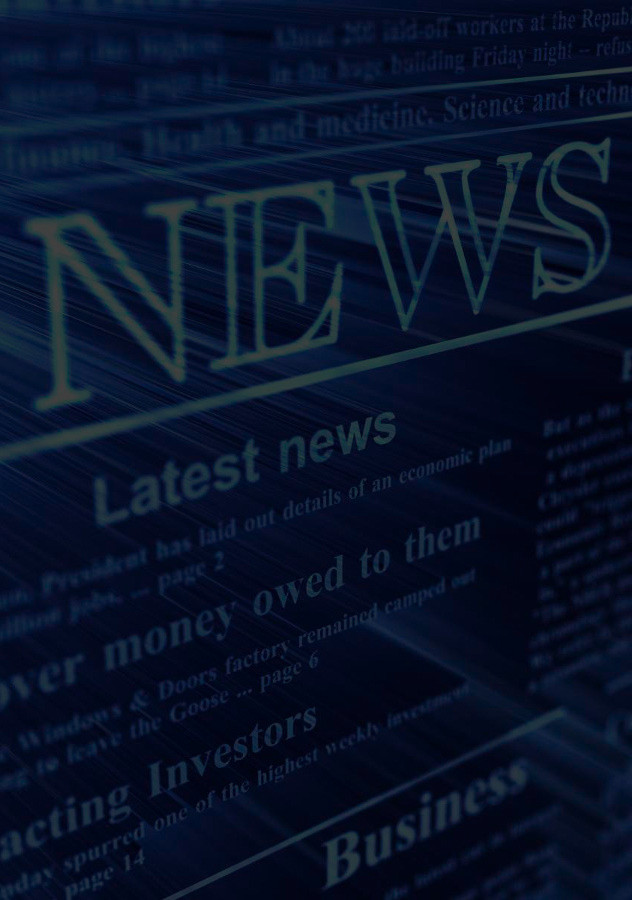
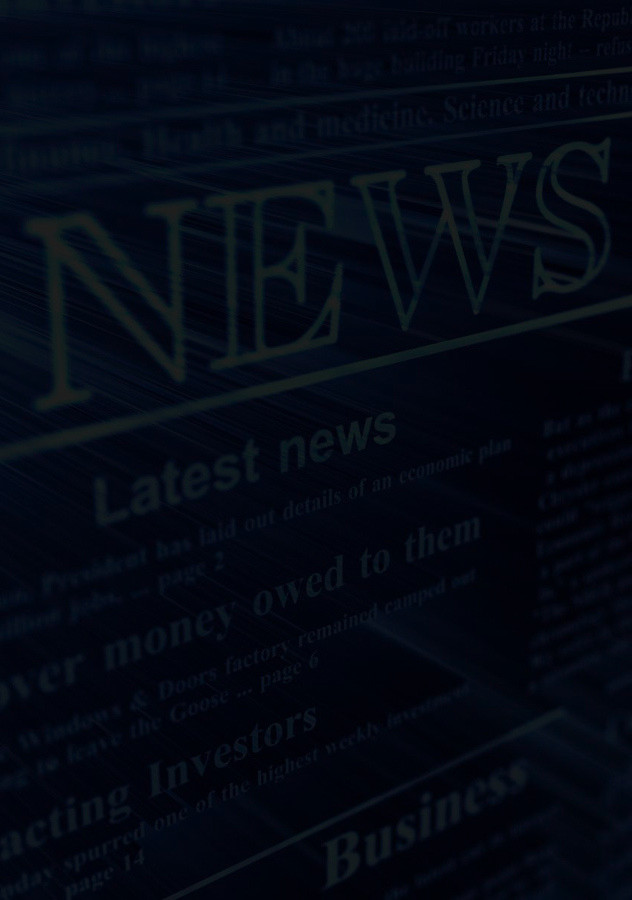
ajustes destaque

diff --git a/lib/model/Notice.dart b/lib/model/Notice.dart
@@ -1,9 +1,7 @@
-
 import 'package:transparent_image/transparent_image.dart';
 import 'package:flutter/material.dart';
 
-class Notice{
-
+class Notice {
   String img;
   String title;
   String date;
@@ -15,8 +13,8 @@ class Notice{
   Notice(this.img, this.title, this.date, this.description, this.category,
       this.link, this.origin);
 
-  Notice.fromMap(Map<String, dynamic>  map) :
-        img = _getImageUrl(map['url_img'],200,200),
+  Notice.fromMap(Map<String, dynamic> map)
+      : img = _getImageUrl(map['url_img'], 200, 200),
         title = map['tittle'],
         date = map['date'],
         description = map['description'],
@@ -24,25 +22,22 @@ class Notice{
         link = map['link'],
         origin = map['origin'];
 
-
-  Widget getViewNormal(){
-    return new NoticeView(img,title,date,description,category,link,origin);
+  Widget getViewNormal() {
+    return new NoticeView(
+        img, title, date, description, category, link, origin);
   }
 
-  Widget getViewSpotlight(){
-    return new NoticeViewSpotlight(img,title,date,description,category,link,origin);
+  Widget getViewSpotlight() {
+    return new NoticeViewSpotlight(
+        img, title, date, description, category, link, origin);
   }
 
-  static String _getImageUrl(url,height,width){
-
+  static String _getImageUrl(url, height, width) {
     return 'http://104.131.18.84/notice/tim.php?src=$url&h=$height&w=$width';
-
   }
-
 }
 
 class NoticeView extends StatelessWidget {
-
   String _img;
   String _title;
   String _date;
@@ -50,7 +45,6 @@ class NoticeView extends StatelessWidget {
   String _category;
   String _link;
   String _origin;
-
 
   NoticeView(this._img, this._title, this._date, this._description,
       this._category, this._link, this._origin);
@@ -66,30 +60,30 @@ class NoticeView extends StatelessWidget {
           crossAxisAlignment: CrossAxisAlignment.start,
           children: <Widget>[
             _getImage(_img),
-            _getColumText(_title,_date,_description),
+            _getColumText(_title, _date, _description),
           ],
         ),
       ),
     );
   }
 
-  Widget _getColumText(tittle,date, description){
-
+  Widget _getColumText(tittle, date, description) {
     return new Expanded(
         child: new Container(
-          margin: new EdgeInsets.only(left: 20.0, right: 10.0, bottom: 10.0, top: 10.0),
-          child: new Column(
-            crossAxisAlignment:CrossAxisAlignment.start,
-            children: <Widget>[
-              _getTitleWidget(tittle),
-              _getDateWidget(date),
-              _getDescriptionWidget(description)],
-          ),
-        )
-    );
+      margin:
+          new EdgeInsets.only(left: 20.0, right: 10.0, bottom: 10.0, top: 10.0),
+      child: new Column(
+        crossAxisAlignment: CrossAxisAlignment.start,
+        children: <Widget>[
+          _getTitleWidget(tittle),
+          _getDateWidget(date),
+          _getDescriptionWidget(description)
+        ],
+      ),
+    ));
   }
 
-  Widget _getTitleWidget(String curencyName){
+  Widget _getTitleWidget(String curencyName) {
     return new Text(
       curencyName,
       maxLines: 1,
@@ -97,38 +91,39 @@ class NoticeView extends StatelessWidget {
     );
   }
 
-  Widget _getDescriptionWidget(String description){
+  Widget _getDescriptionWidget(String description) {
     return new Container(
       margin: new EdgeInsets.only(top: 5.0),
-      child: new Text(description,maxLines: 2,),
+      child: new Text(
+        description,
+        maxLines: 2,
+      ),
     );
   }
 
-  Widget _getDateWidget(String date){
-    return new Text(date,
-      style: new TextStyle(color: Colors.grey,fontSize: 10.0),);
+  Widget _getDateWidget(String date) {
+    return new Text(
+      date,
+      style: new TextStyle(color: Colors.grey, fontSize: 10.0),
+    );
   }
 
   Widget _getImage(String img) {
-
     return Container(
         child: ClipRRect(
-          borderRadius: BorderRadius.only(topLeft: Radius.circular(4.0),bottomLeft: Radius.circular(4.0)),
-          child: FadeInImage.memoryNetwork(
-              placeholder: kTransparentImage,
-              image: _img,
-              fit: BoxFit.cover,
-              width: 100.0,
-              height: 100.0),
-        )
-    );
-
+      borderRadius: BorderRadius.only(
+          topLeft: Radius.circular(4.0), bottomLeft: Radius.circular(4.0)),
+      child: FadeInImage.memoryNetwork(
+          placeholder: kTransparentImage,
+          image: _img,
+          fit: BoxFit.cover,
+          width: 100.0,
+          height: 100.0),
+    ));
   }
-
 }
 
 class NoticeViewSpotlight extends StatelessWidget {
-
   String _img;
   String _title;
   String _date;
@@ -137,28 +132,66 @@ class NoticeViewSpotlight extends StatelessWidget {
   String _link;
   String _origin;
 
-
   NoticeViewSpotlight(this._img, this._title, this._date, this._description,
       this._category, this._link, this._origin);
 
   @override
   Widget build(BuildContext context) {
     return Container(
-      margin: EdgeInsets.only(top: 20.0,left: 15.0,right: 15.0),
+      margin: EdgeInsets.only(top: 20.0, left: 15.0, right: 15.0),
       child: Material(
         elevation: 4.0,
         borderRadius: BorderRadius.all(Radius.circular(4.0)),
-        child: Column(
-          children: <Widget>[
-            ClipRRect(
-              borderRadius: BorderRadius.only(topLeft: Radius.circular(4.0),topRight: Radius.circular(4.0)),
-              child: Container(
-                width: double.maxFinite,
-                  height: 180.0,
-                  child: FadeInImage.memoryNetwork(placeholder: kTransparentImage, image: _img,fit: BoxFit.cover,)
+        child: Container(
+          height: 190.0,
+          child: Stack(
+            fit: StackFit.expand,
+            children: <Widget>[
+              ClipRRect(
+                borderRadius: BorderRadius.all(Radius.circular(4.0)),
+                child: Container(
+                    width: double.maxFinite,
+                    height: 190.0,
+                    child: FadeInImage.memoryNetwork(
+                      placeholder: kTransparentImage,
+                      image: _img,
+                      fit: BoxFit.cover,
+                    )),
               ),
-            ),
-            _buildDescription()
+              _buildGradient(),
+              _buildBottom()
+            ],
+          ),
+        ),
+      ),
+    );
+  }
+
+  _buildBottom() {
+
+    return Container(
+      height: 190.0,
+      child: Column(
+        mainAxisAlignment: MainAxisAlignment.end,
+        crossAxisAlignment: CrossAxisAlignment.start,
+        children: <Widget>[
+          _buildDescription()
+        ],
+      ),
+    );
+
+  }
+
+  _buildGradient() {
+    return DecoratedBox(
+      decoration: new BoxDecoration(
+        borderRadius: BorderRadius.all(Radius.circular(5.0)),
+        gradient: new LinearGradient(
+          begin: FractionalOffset.bottomCenter,
+          end: FractionalOffset.topCenter,
+          colors: [
+            const Color(0xFF000000),
+            const Color(0x00000000),
           ],
         ),
       ),
@@ -167,23 +200,21 @@ class NoticeViewSpotlight extends StatelessWidget {
 
   _buildDescription() {
     return Container(
-      padding: EdgeInsets.all(10.0),
+      padding: EdgeInsets.all(15.0),
       child: Column(
-        crossAxisAlignment: CrossAxisAlignment.stretch,
+        crossAxisAlignment: CrossAxisAlignment.start,
         children: <Widget>[
           Text(
             _date,
-            style: TextStyle(
-              color: Colors.grey
-            ),
+            style: TextStyle(color: Colors.grey),
           ),
           Container(
             margin: EdgeInsets.only(top: 10.0),
-            child: Text(_description,maxLines: 3),
+            child: Text(_description, maxLines: 2,
+            style: TextStyle(color: Colors.white),),
           )
         ],
       ),
     );
   }
 }
-

diff --git a/lib/main.dart b/lib/main.dart
@@ -66,7 +66,7 @@ class _MyHomePageState extends State<MyHomePage> {
     return HiddenDrawerMenu(
       initPositionSelected: 0,
       screens: itens,
-      backgroundMenu: DecorationImage(image: ExactAssetImage('assets/bg_plexus.jpg'),fit: BoxFit.cover),
+      backgroundMenu: DecorationImage(image: ExactAssetImage('assets/bg_news.jpg'),fit: BoxFit.cover),
       enableShadowItensMenu: true,
     );
 
